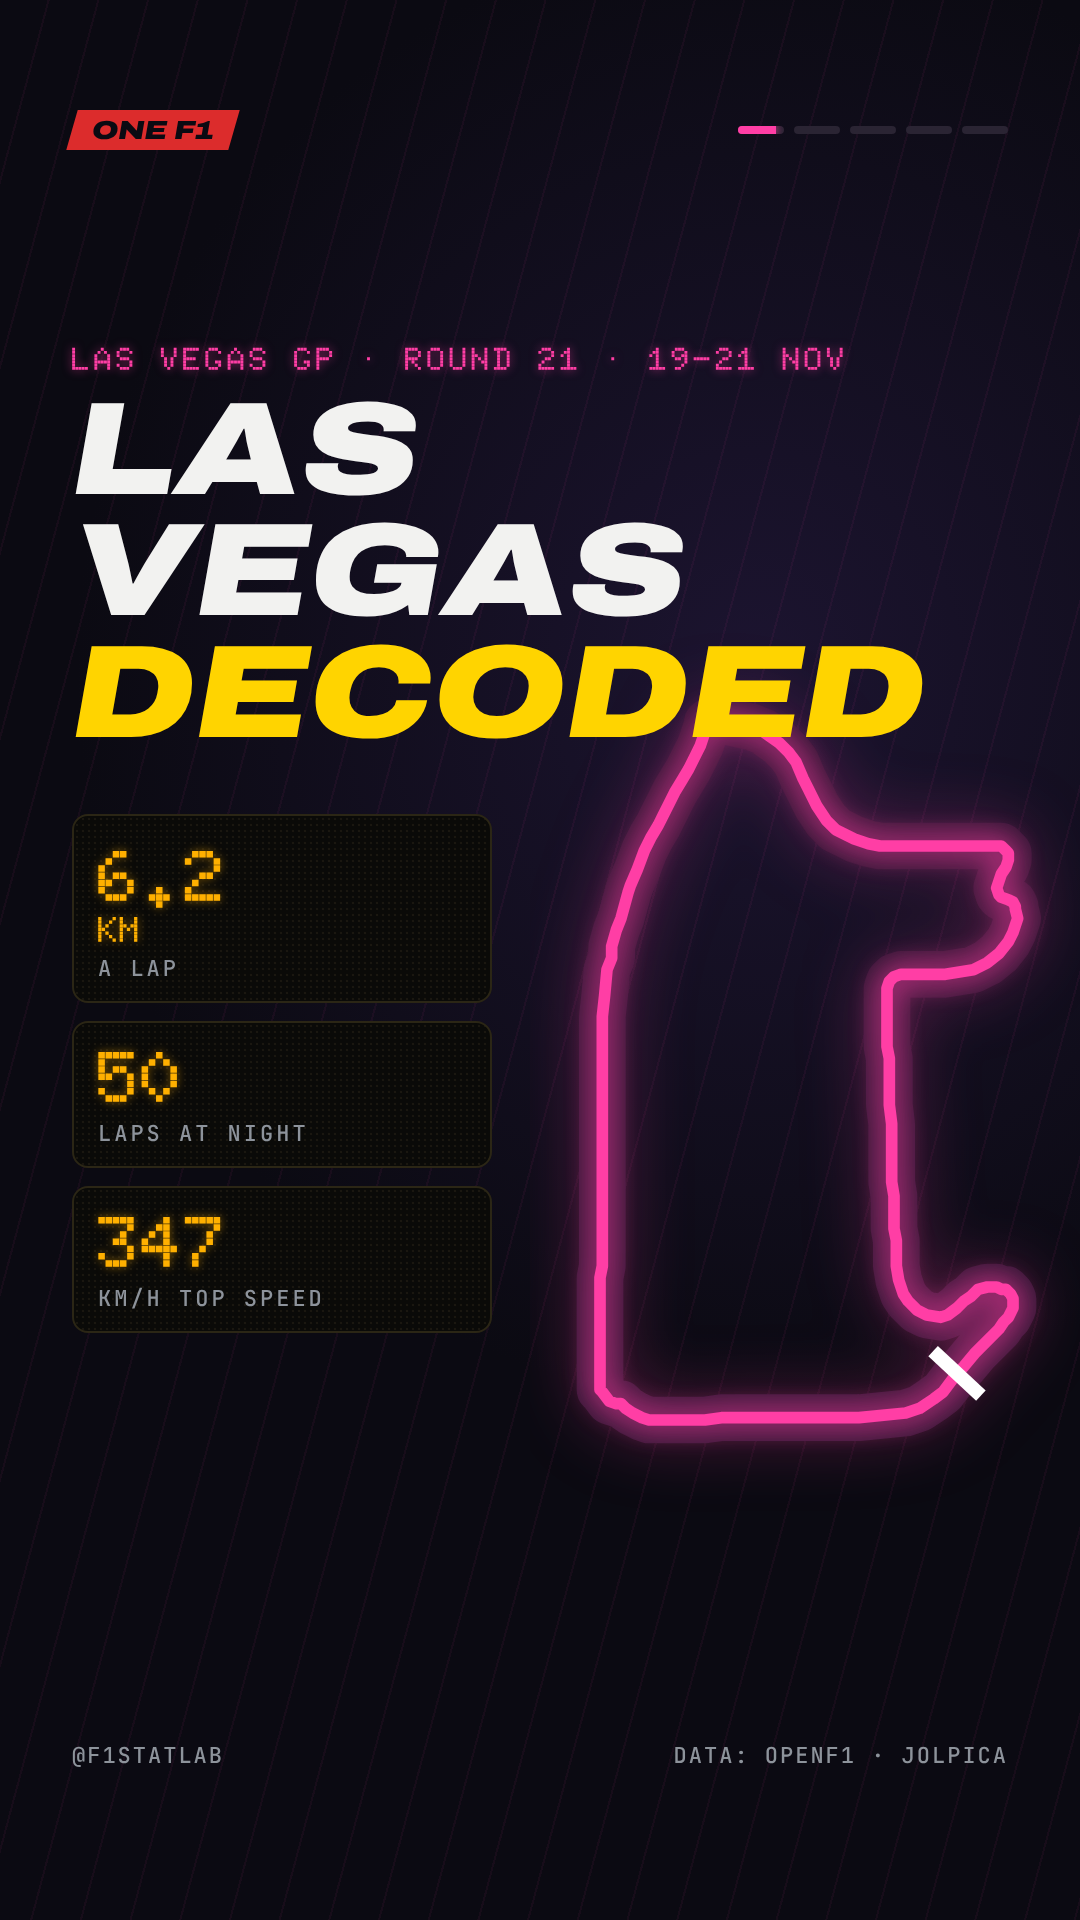
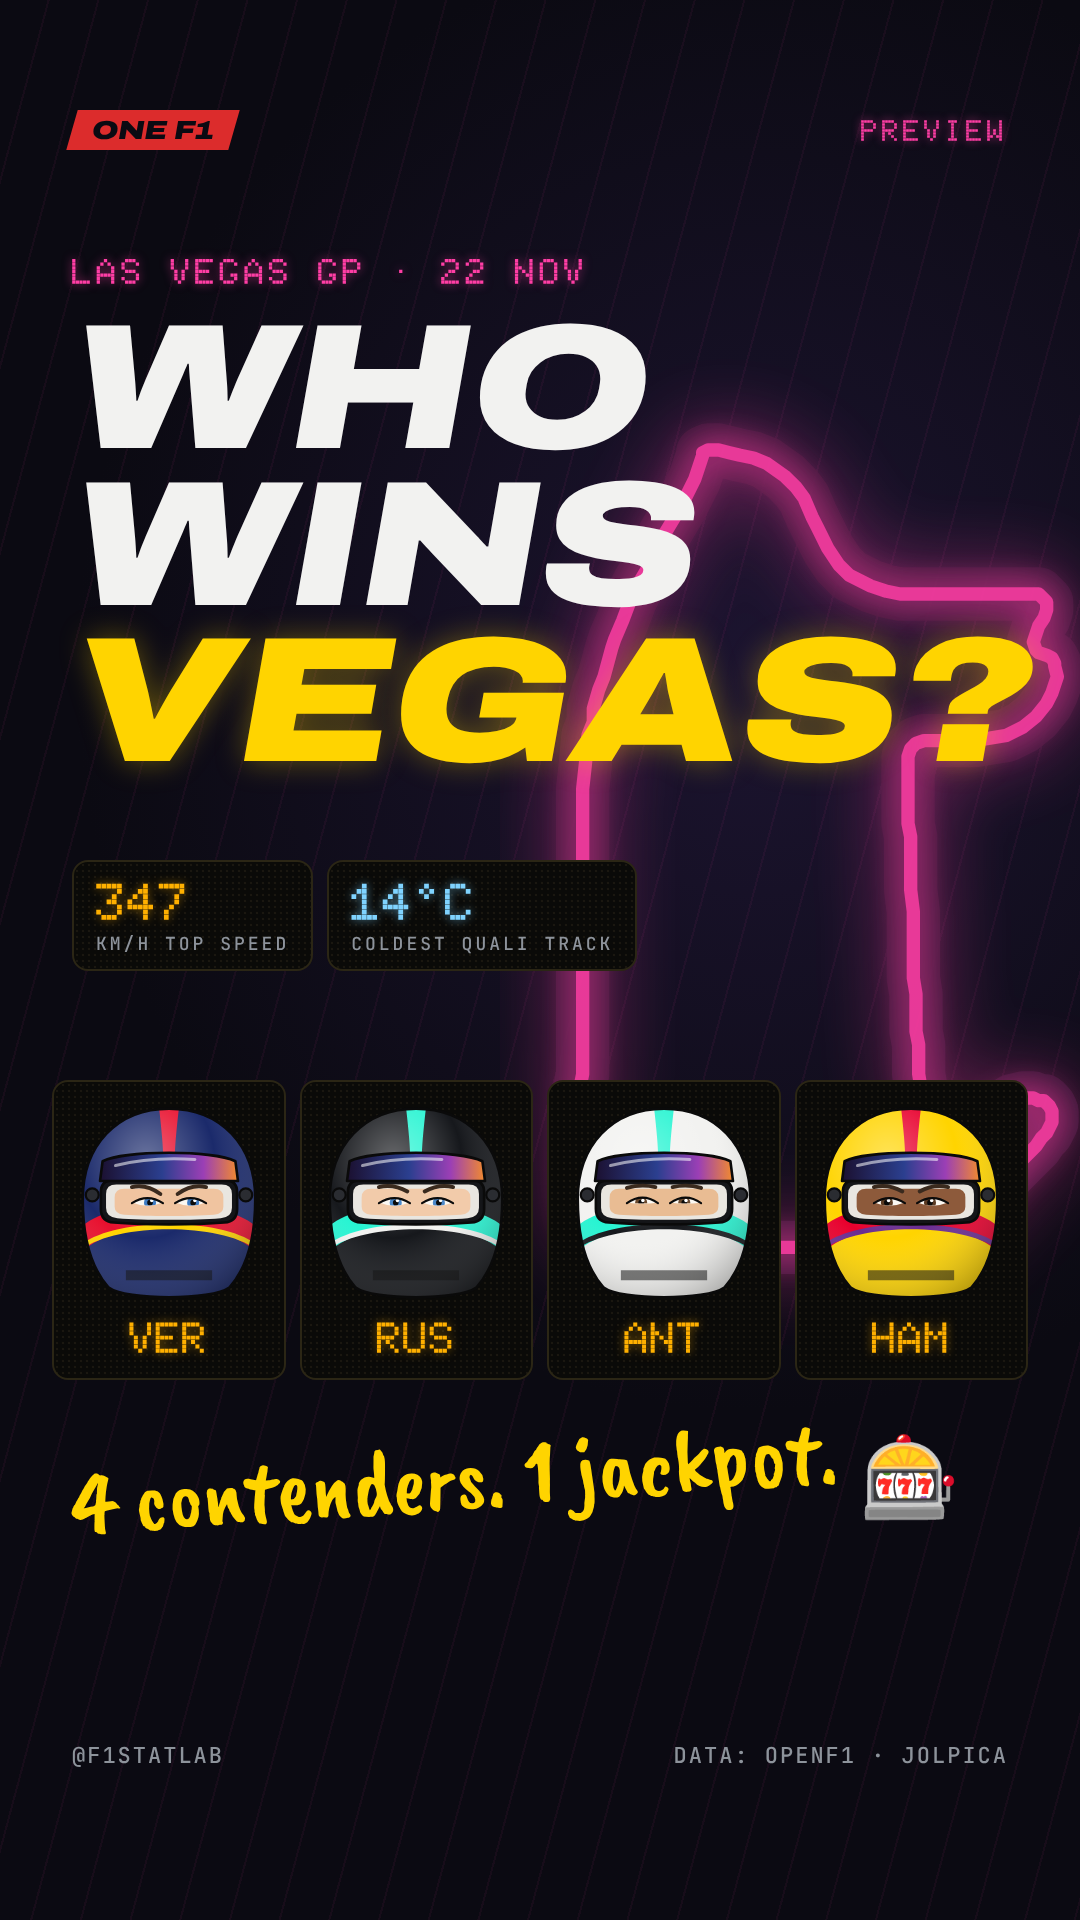
Vegas reel cover: four contenders, neon track, grid-safe layout
Claude-Session: https://claude.ai/code/session_016E9C1XvYpsSCiakD2mRjGd

diff --git a/content/vegas-preview-carousel/export-cover.js b/content/vegas-preview-carousel/export-cover.js
@@ -1,0 +1,46 @@
+// Reel cover for the Las Vegas preview: 1080x1920, key content inside the middle 1080x1440 (y 240-1680) that the profile grid shows.
+// Reuses the reel page's styles, track and helmet() so the cover matches the video.
+// Usage: node vegas-preview-carousel/export-cover.js   -> video/onef1-vegas-reel-cover.png + video/onef1-vegas-reel-cover-grid.png
+const { chromium } = require('playwright'), path = require('path');
+const OUT = path.join(__dirname, 'video');
+(async () => {
+  const b = await chromium.launch(); const p = await b.newPage({ viewport: { width: 1080, height: 1920 } });
+  await p.goto('file://' + path.join(__dirname, 'vegas-reel.html')); await p.evaluate(() => document.fonts.ready);
+  await p.evaluate(() => {
+    const pts = TRACK.map((q) => q.join(",")).join(" ");
+    const st = document.querySelector('.stage');
+    st.innerHTML = `
+    <style>
+      .cv { position:absolute; inset:0; padding:250px 72px 0; }
+      .cv .track { position:absolute; right:-60px; top:330px; width:640px; height:1040px; opacity:.9; }
+      .cv .kick { margin:0; font-size:36px; }
+      .cv .h { font-size:178px; line-height:.88; margin-top:18px; }
+      .cv .h em { display:block; text-shadow:0 0 30px rgba(255,212,0,.35); }
+      .cv .row4 { position:absolute; left:52px; right:52px; top:1080px; display:grid; grid-template-columns:repeat(4,1fr); gap:14px; z-index:3; }
+      .cv .row4 .panel { display:flex; flex-direction:column; align-items:center; padding:18px 6px 14px; }
+      .cv .row4 .led { font-size:44px; margin-top:4px; }
+      .cv .tag { position:absolute; left:72px; top:1420px; z-index:3; display:flex; align-items:center; gap:22px; }
+      .cv .chips2 { display:flex; gap:14px; position:absolute; left:72px; top:860px; z-index:3; }
+      .cv .chips2 .panel { padding:14px 22px; } .cv .chips2 .led { font-size:52px; line-height:1; } .cv .chips2 .lbl { font-size:18px; display:block; margin-top:4px; }
+      .cv .ftr { bottom:150px; }
+    </style>
+    <div class="hdr"><span class="brand"><span>ONE F1</span></span><span class="pg" style="color:#FF3EA5;text-shadow:0 0 8px rgba(255,62,165,.6)">PREVIEW</span></div>
+    <div class="cv">
+      <svg class="track" viewBox="-30 -30 240 360"><polyline points="${pts}" fill="none" stroke="#2A1530" stroke-width="20" stroke-linejoin="round"/>
+        <polyline points="${pts}" fill="none" stroke="#FF3EA5" stroke-width="5" stroke-linejoin="round" style="filter:drop-shadow(0 0 6px #FF3EA5) drop-shadow(0 0 14px #FF3EA5)"/></svg>
+      <div class="kick">LAS VEGAS GP · 22 NOV</div>
+      <h1 class="h">Who<br>wins<em>Vegas?</em></h1>
+      <div class="chips2">
+        <div class="panel"><b class="led">347</b><span class="lbl">km/h top speed</span></div>
+        <div class="panel"><b class="led" style="color:#7FD3FF;text-shadow:0 0 10px rgba(127,211,255,.6)">14°C</b><span class="lbl">coldest quali track</span></div>
+      </div>
+      <div class="row4">${[["VER", 6], ["RUS", 3], ["ANT", -3], ["HAM", -6]].map(([c, l]) => `<div class="panel">${helmet(c, { size: 190, look: l })}<b class="led">${c}</b></div>`).join("")}</div>
+      <div class="tag"><span class="hand" style="font-size:92px;transform:rotate(-4deg);display:inline-block">4 contenders. 1 jackpot.</span><span style="font-size:80px">🎰</span></div>
+    </div>
+    <div class="ftr"><span>@F1STATLAB</span><span>DATA: OPENF1 · JOLPICA</span></div>`;
+  });
+  await p.waitForTimeout(300);
+  await p.screenshot({ path: path.join(OUT, 'onef1-vegas-reel-cover.png') });
+  await p.screenshot({ path: path.join(OUT, 'onef1-vegas-reel-cover-grid.png'), clip: { x: 0, y: 240, width: 1080, height: 1440 } });
+  await b.close(); console.log('cover written');
+})();

diff --git a/content/vegas-preview-carousel/export-reel.js b/content/vegas-preview-carousel/export-reel.js
@@ -28,6 +28,6 @@ const [OUT, WAV] = process.argv.slice(2); const FPS = 30;
     if (i % 300 === 0) console.log('  frame', i, '/', n);
   }
   ff.stdin.end(); await new Promise((r) => ff.on('close', r));
-  await p.evaluate(() => window.reel.seek(7)); await p.screenshot({ path: path.join(path.dirname(OUT), 'onef1-vegas-reel-cover.png') });
+  // cover: see export-cover.js
   await b.close(); console.log('done', OUT, dur + 's');
 })();

diff --git a/content/README.md b/content/README.md
@@ -14,7 +14,7 @@ Requirements for rebuilding: Python 3, Node with Playwright (`npm i playwright`)
 | `videos/max-interlagos-fx-preview-0-48.mp4` | Motion + sound pass on "Max × Interlagos", first 48 s (preview) |
 | `brazil-race-recap/statlab-interlagos-recap-cover.png` | Reel cover, 1080×1920 (`-grid.png` = the 1080×1440 profile-grid crop) |
 | `covers/out/statlab-cover-*.png` | Reel covers for all five reels in three colour templates (night, wet, team) with illustrated drivers, 1080×1920 (`-grid.png` = the 1080×1440 profile-grid crop) |
-| `vegas-preview-carousel/video/onef1-vegas-preview-reel.mp4` | Las Vegas preview reel, 1080×1920, 47 s: the carousel's slides 1–4 and 6, animated, synthesised soundtrack (cover: `onef1-vegas-reel-cover.png`) |
+| `vegas-preview-carousel/video/onef1-vegas-preview-reel.mp4` | Las Vegas preview reel, 1080×1920, 52.5 s: the carousel slides animated, 150 bpm synthesised soundtrack, fill sounds only on the P2 fight. Cover: `node vegas-preview-carousel/export-cover.js` -> `onef1-vegas-reel-cover.png` (+ `-grid.png` crop) |
 | `vegas-preview-carousel/slides/*.png` | Las Vegas GP preview carousel, 6 slides, 1080×1350 (track, flat-out %, temperatures, tyres, past winners, who wins) |
 | `brazil-quali-carousel/slides/*.png` | São Paulo qualifying carousel, 5 slides, 1080×1350 |
 | `data/brazil_2026_race_results.csv` | Full São Paulo GP classification: grid, places gained, tyres, stops, best lap, penalties |
